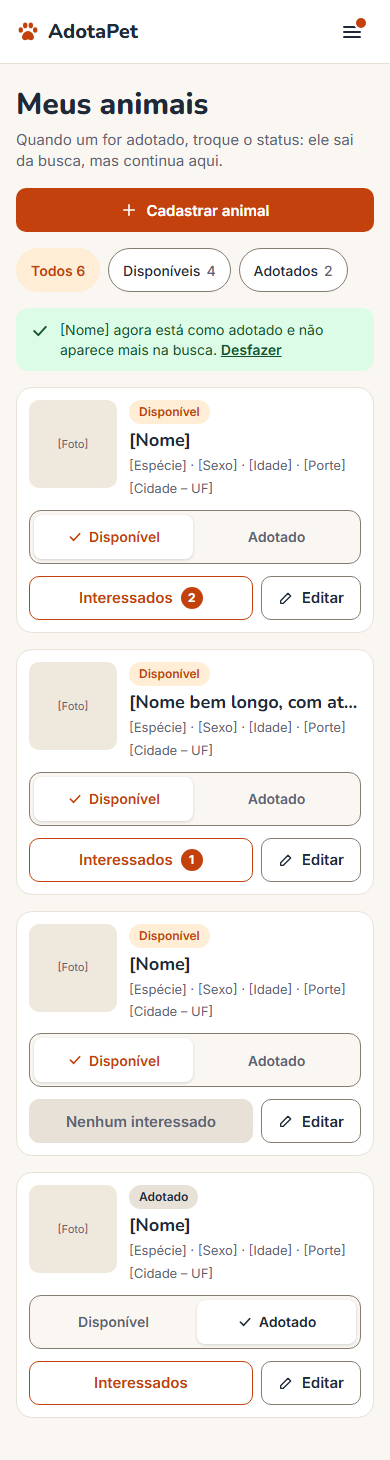
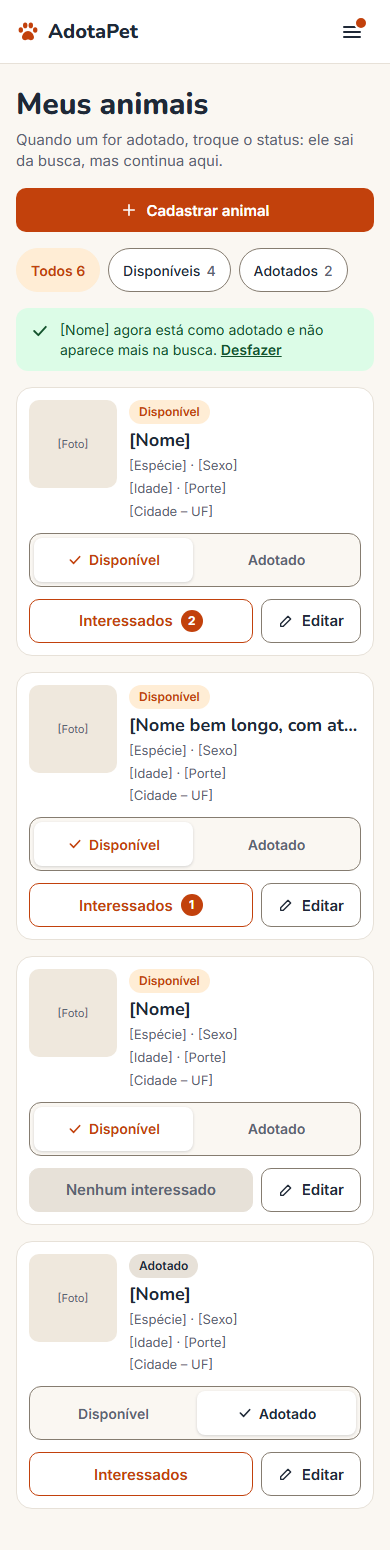
docs: quebra características em dois pares e leva alvos de toque a 44 px
- Características em dois pares fixos ([Espécie] · [Sexo] e [Idade] · [Porte])
  nos cartões do celular e no resumo do animal em Interessados, como na #16.
- Links do cabeçalho, logo e "Desfazer" do aviso no computador com 44 px.
- PNGs reexportados e responsavel.md atualizado.

diff --git a/docs/wireframes/responsavel.md b/docs/wireframes/responsavel.md
@@ -86,7 +86,8 @@ Valem para Aceitar e Recusar, em Interessados, e para o controle Disponível / A
 O nome do animal e a cidade vão até 100 caracteres, e o nome do adotante e o do responsável até 150.
 
 - Cartões, linhas de interessados e o nome no cabeçalho usam uma linha só, com reticências no fim.
-- A linha de características (`[Espécie] · [Sexo] · [Idade] · [Porte]`) e a da cidade seguem a mesma regra.
+- As características viram dois pares fixos nos cartões do celular e no resumo do animal em Interessados (computador e celular), como na #16: `[Espécie] · [Sexo]` numa linha e `[Idade] · [Porte]` na outra. Com dados reais, como "Cachorro · Fêmea · Menos de 1 ano · Pequeno", a linha única cortava o porte. Nos cartões de Meus animais no computador ela cabe, então fica numa linha só.
+- Cada par e a linha da cidade seguem a mesma regra de uma linha com reticências.
 - Títulos, como "Interessados em [Nome]", e avisos quebram linha.
 - As etiquetas de status e os botões não encolhem: quem cede espaço é o texto.
 
@@ -94,6 +95,8 @@ O nome do animal e a cidade vão até 100 caracteres, e o nome do adotante e o d
 
 A borda dos controles usa `#857C70`, como na #14: campos, opções de rádio, botões Recusar e Editar, filtros, controle Disponível / Adotado, botão do lápis e tracejado da foto. Dá 4,1:1 no branco e 3,8:1 no fundo `#FAF7F2`, acima do mínimo de 3:1 (WCAG 1.4.11).
 Cartões e divisórias continuam com `#E7E1D8`, porque não são controles.
+
+Todo alvo de toque tem pelo menos 44 px de altura, como pede o estilo da #8: botões, campos, filtros, controle de status, os links do cabeçalho (Início, Meus animais e Solicitações), o logo e o **Desfazer** do aviso no computador, que ali é um botão à parte. No celular o **Desfazer** fica dentro da frase do aviso, como link de texto.
 
 ## Para o grupo decidir
 
